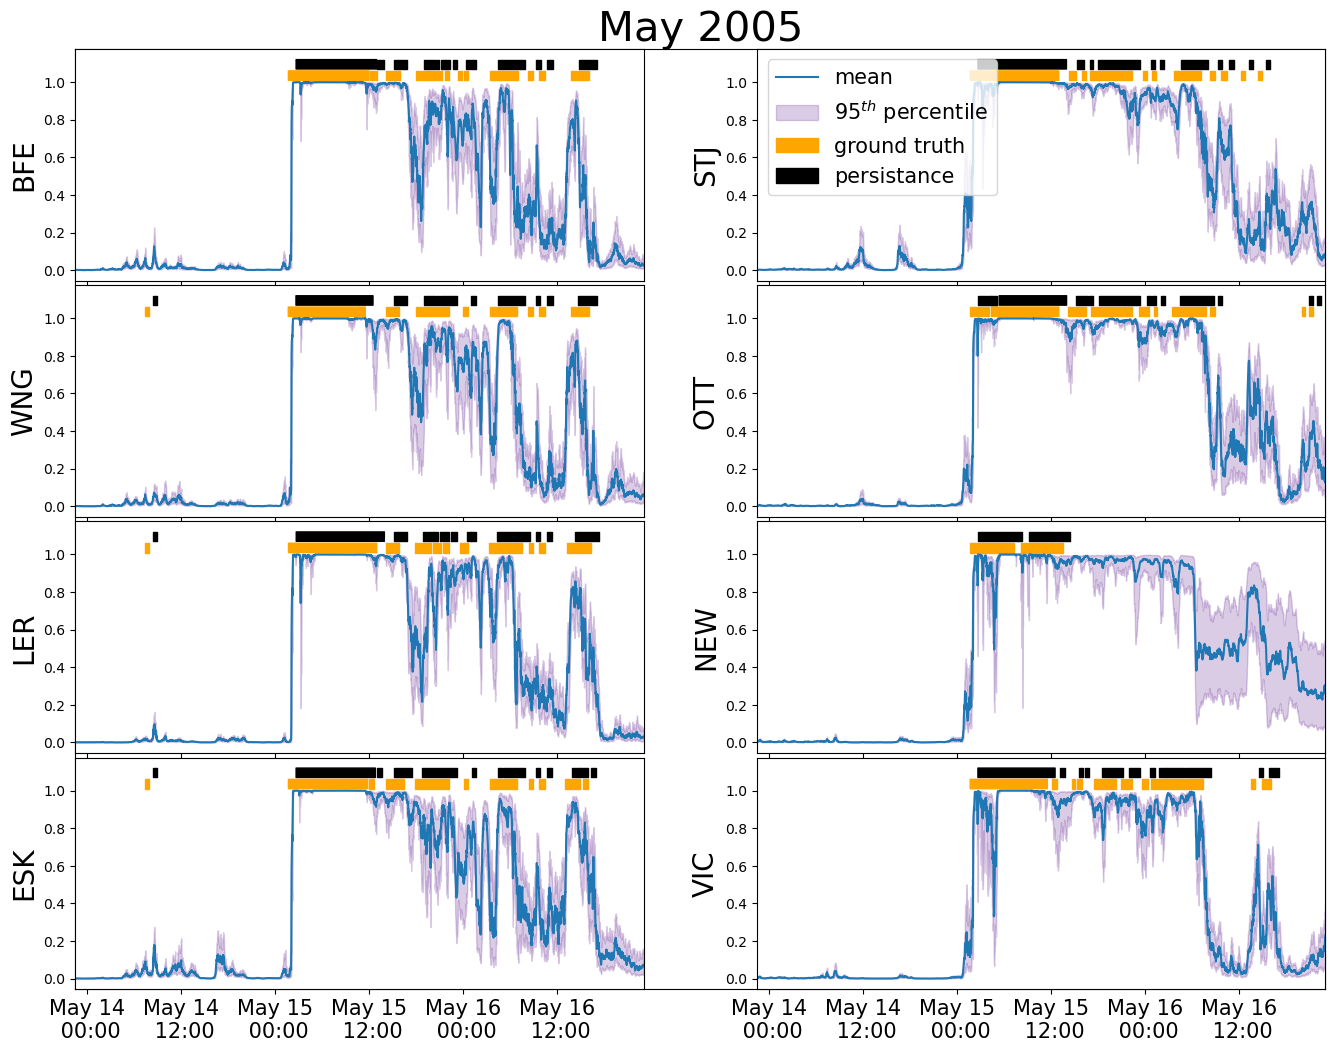
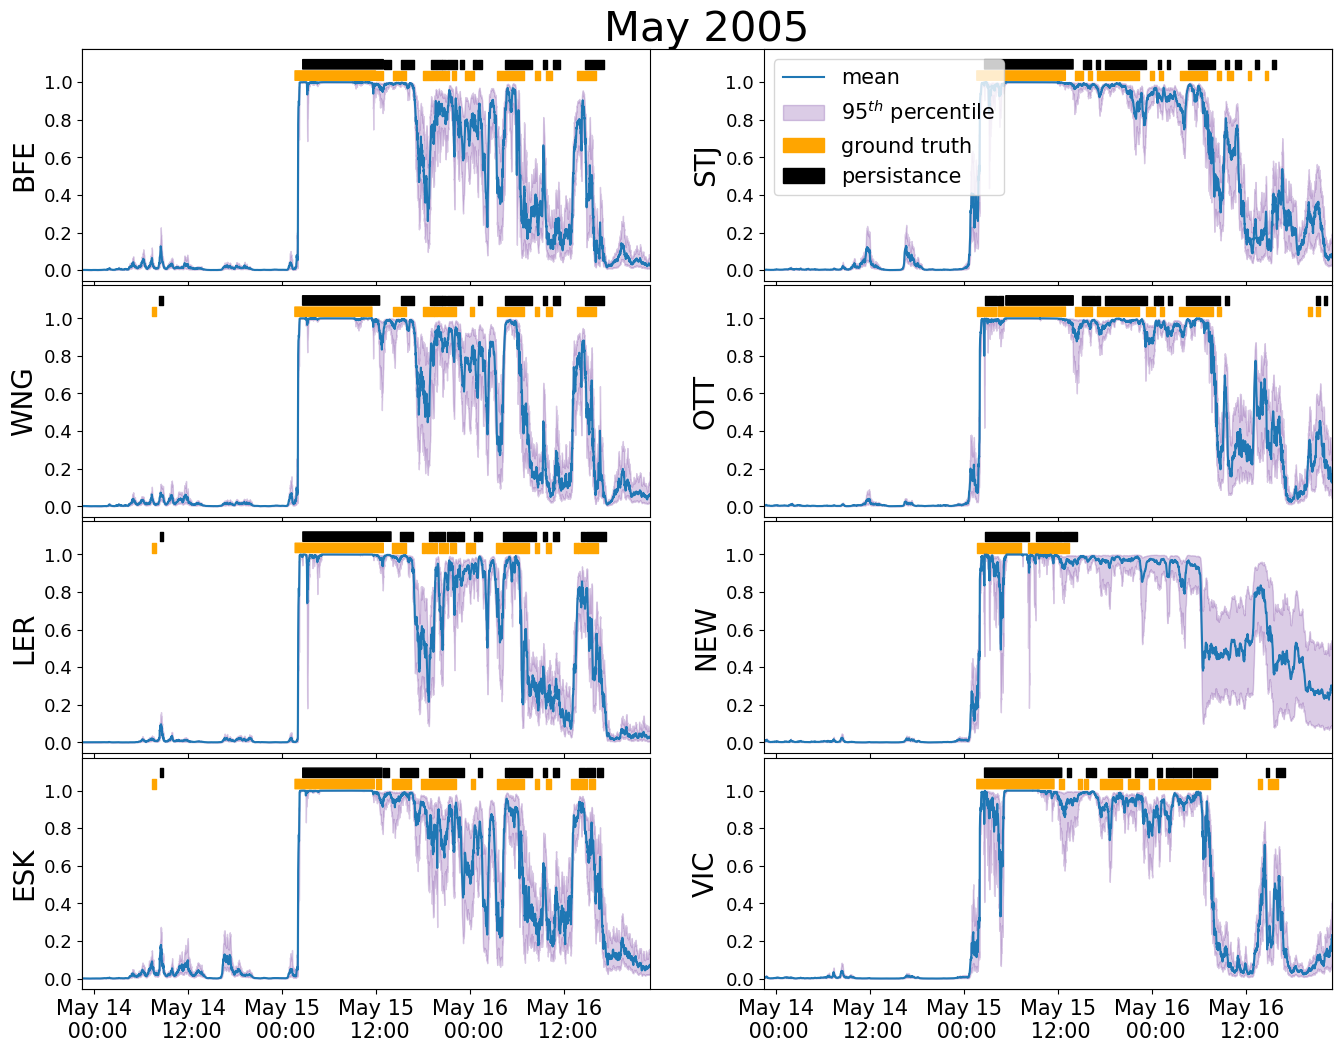
updating plots

diff --git a/plotting.py b/plotting.py
@@ -419,7 +419,7 @@ def plot_model_outputs(results_dict, storm, splits, title, stime, etime):
 	ax1.margins(x=0)							# tightning the plot margins
 	ax1.set_ylabel('BFE', fontsize='20')
 	# plt.legend()
-	plt.yticks(fontsize='10')
+	plt.yticks(fontsize='13')
 	# ax1.xaxis.set_major_locator(ticker.NullLocator())
 	ax1.set_xticklabels([], fontsize=0)
 
@@ -434,7 +434,7 @@ def plot_model_outputs(results_dict, storm, splits, title, stime, etime):
 	ax2.fill_between(WNG_bar.index, WNG_bar['pers_bottom'], WNG_bar['pers_top'], where=w2>w1, alpha=1, color='black')
 	ax2.margins(x=0)
 	ax2.set_ylabel('WNG', fontsize='20')
-	plt.yticks(fontsize='10')
+	plt.yticks(fontsize='13')
 	ax2.set_xticklabels([], fontsize=0)			# adds the date to the bottom of the plot
 
 	ax3 = fig.add_subplot(425, sharex=ax1)			# initalizing the subplot
@@ -448,7 +448,7 @@ def plot_model_outputs(results_dict, storm, splits, title, stime, etime):
 	ax3.fill_between(LER_bar.index, LER_bar['pers_bottom'], LER_bar['pers_top'], where=w2>w1, alpha=1, color='black')
 	ax3.margins(x=0)							# tightning the plot margins
 	ax3.set_ylabel('LER', fontsize='20')
-	plt.yticks(fontsize='10')
+	plt.yticks(fontsize='13')
 	ax3.set_xticklabels([], fontsize=0)
 
 	ax4 = fig.add_subplot(427, sharex=ax1)
@@ -462,7 +462,7 @@ def plot_model_outputs(results_dict, storm, splits, title, stime, etime):
 	ax4.fill_between(ESK_bar.index, ESK_bar['pers_bottom'], ESK_bar['pers_top'], where=w2>w1, alpha=1, color='black')
 	ax4.margins(x=0)
 	ax4.set_ylabel('ESK', fontsize='20')
-	plt.yticks(fontsize='10')
+	plt.yticks(fontsize='13')
 	plt.xticks(fontsize=15)
 	ax4.xaxis.set_major_formatter(mdates.DateFormatter('%b %d\n %H:%M'))			# adds the date to the bottom of the plot
 
@@ -478,7 +478,7 @@ def plot_model_outputs(results_dict, storm, splits, title, stime, etime):
 	plt.legend(loc='upper left', fontsize='15')
 	ax5.margins(x=0)							# tightning the plot margins
 	ax5.set_ylabel('STJ', fontsize='20')
-	plt.yticks(fontsize='10')
+	plt.yticks(fontsize='13')
 	ax5.set_xticklabels([], fontsize=0)
 
 	ax6 = fig.add_subplot(424, sharex=ax1)
@@ -492,7 +492,7 @@ def plot_model_outputs(results_dict, storm, splits, title, stime, etime):
 	ax6.fill_between(OTT_bar.index, OTT_bar['pers_bottom'], OTT_bar['pers_top'], where=w2>w1, alpha=1, color='black')
 	ax6.margins(x=0)
 	ax6.set_ylabel('OTT', fontsize='20')
-	plt.yticks(fontsize='10')
+	plt.yticks(fontsize='13')
 	plt.xticks(fontsize=5)
 	ax6.set_xticklabels([], fontsize=0)
 
@@ -507,7 +507,7 @@ def plot_model_outputs(results_dict, storm, splits, title, stime, etime):
 	ax7.fill_between(NEW_bar.index, NEW_bar['pers_bottom'], NEW_bar['pers_top'], where=w2>w1, alpha=1, color='black')
 	ax7.margins(x=0)
 	ax7.set_ylabel('NEW', fontsize='20')
-	plt.yticks(fontsize='10')
+	plt.yticks(fontsize='13')
 	plt.xticks(fontsize=5)
 	ax7.set_xticklabels([], fontsize=0)
 
@@ -522,7 +522,7 @@ def plot_model_outputs(results_dict, storm, splits, title, stime, etime):
 	ax8.fill_between(VIC_bar.index, VIC_bar['pers_bottom'], VIC_bar['pers_top'], where=w2>w1, alpha=1, color='black')
 	ax8.margins(x=0)
 	ax8.set_ylabel('VIC', fontsize='20')
-	plt.yticks(fontsize='10')
+	plt.yticks(fontsize='13')
 	plt.xticks(fontsize=15)
 	ax8.xaxis.set_major_formatter(mdates.DateFormatter('%b %d\n %H:%M'))			# adds the date to the bottom of the plot
 
